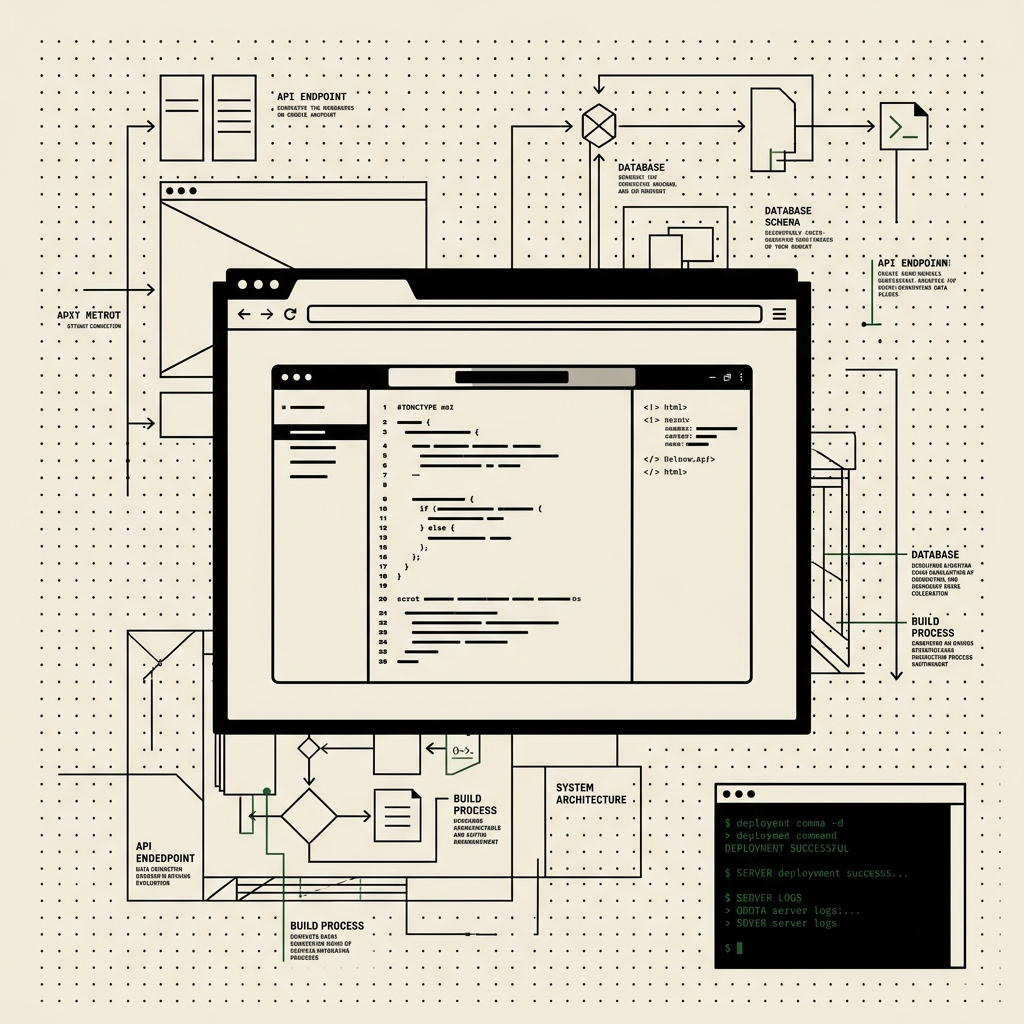
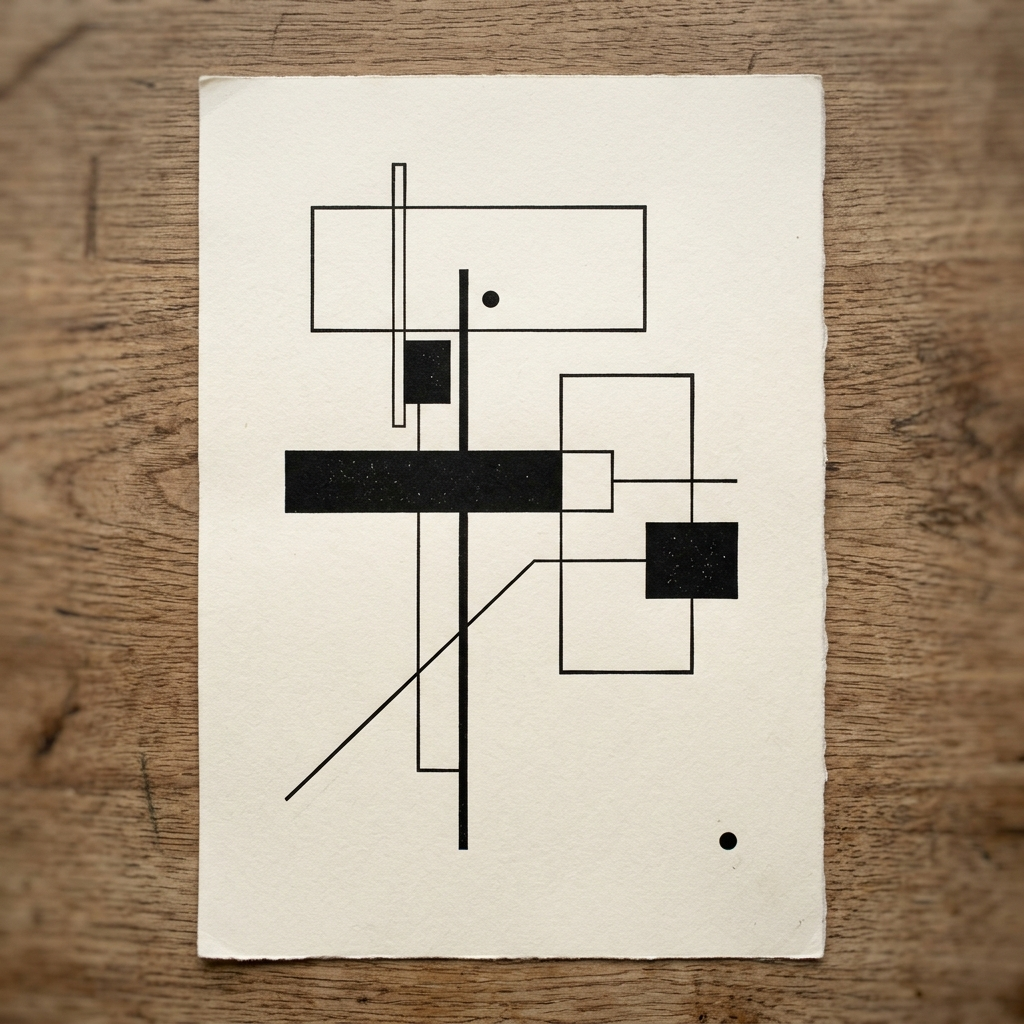
updated css

diff --git a/src/components/Hero.css b/src/components/Hero.css
@@ -380,16 +380,44 @@
 @media (max-width: 768px) {
   .hero__body {
     grid-template-columns: 1fr;
-    grid-template-rows: auto 280px;
+    grid-template-rows: auto 240px;
   }
   .hero__left {
     border-right: none;
     border-bottom: 1px solid var(--black);
-    padding: 2.5rem var(--site-pad) 2.5rem;
+    padding: 5rem var(--site-pad) 2rem;
+    gap: 1rem;
+    justify-content: flex-start;
   }
-  .hero__name-row { font-size: clamp(3.5rem, 14vw, 6rem); letter-spacing: -3px; }
+  /* hide decorative quote block — it overlaps on mobile */
+  .hero__quote-block { display: none; }
+  .hero__name-row {
+    font-size: clamp(3rem, 13vw, 5.5rem);
+    letter-spacing: -2px;
+  }
   .hero__name-outline { -webkit-text-stroke-width: 2px; }
-  .hero__strip { height: auto; padding: 1.2rem var(--site-pad); flex-wrap: wrap; gap: 1rem; }
+  .hero__sub { font-size: 0.75rem; }
+  .hero__actions { gap: 1rem; }
+  .hero__btn-primary { padding: 0.75rem 1.5rem; font-size: 0.9rem; }
+  /* Stats strip */
+  .hero__strip {
+    height: auto;
+    padding: 1rem var(--site-pad);
+    flex-wrap: wrap;
+    gap: 0.75rem 1.25rem;
+  }
   .hero__vr--push { display: none; }
   .hero__tags { flex-wrap: wrap; }
+  .hero__vr { display: none; }
+  .hero__stat { padding-right: 0; }
+}
+
+@media (max-width: 480px) {
+  .hero__name-row {
+    font-size: clamp(2.8rem, 16vw, 4.5rem);
+    letter-spacing: -2px;
+  }
+  .hero__actions { flex-direction: column; align-items: flex-start; gap: 0.75rem; }
+  .hero__stat-n { font-size: 1.2rem; }
+  .hero__tag { font-size: 0.58rem; }
 }

diff --git a/src/components/About.jsx b/src/components/About.jsx
@@ -20,7 +20,7 @@ function TerminalGraphic() {
     { indent: true, k: 'role:', rest: " 'Freelance Developer'," },
     { indent: true, k: 'stack:', rest: " ['Python', 'React', 'FastAPI']," },
     { indent: true, k: 'cloud:', rest: " ['Azure', 'KVM', 'Docker']," },
-    { indent: true, k: 'degree:', rest: " 'B.Tech CSE — LPU'," },
+    { indent: true, k: 'degree:', rest: " 'B.Tech CSE'," },
     { indent: true, k: 'available:', rest: ' true,' },
     { k: '};', rest: '' },
     { k: '', rest: '' },
@@ -80,9 +80,8 @@ export default function About() {
           {/* RIGHT — bio + skills + stats */}
           <div className="about__col-right">
             <p className="about__bio">
-              I&apos;m Priyanshu Kumar — a freelance developer and B.Tech CSE graduate
-              from Lovely Professional University. I specialise in cloud infrastructure,
-              backend systems, and full-stack web applications.
+              I&apos;m Priyanshu Kumar — a freelance developer specialising in cloud
+              infrastructure, backend systems, and full-stack web applications.
             </p>
             <p className="about__bio">
               I&apos;ve built multi-tenant CRM platforms on Azure, automated AI video pipelines

diff --git a/src/components/Hero.jsx b/src/components/Hero.jsx
@@ -139,7 +139,7 @@ export default function Hero() {
 
           <span className="hero__eyebrow">
             <span className="hero__eyebrow-dot" aria-hidden="true" />
-            Freelance Developer · B.Tech CSE · LPU
+            Freelance Developer · Full-Stack & Cloud
           </span>
 
           <h1 className="hero__name">
